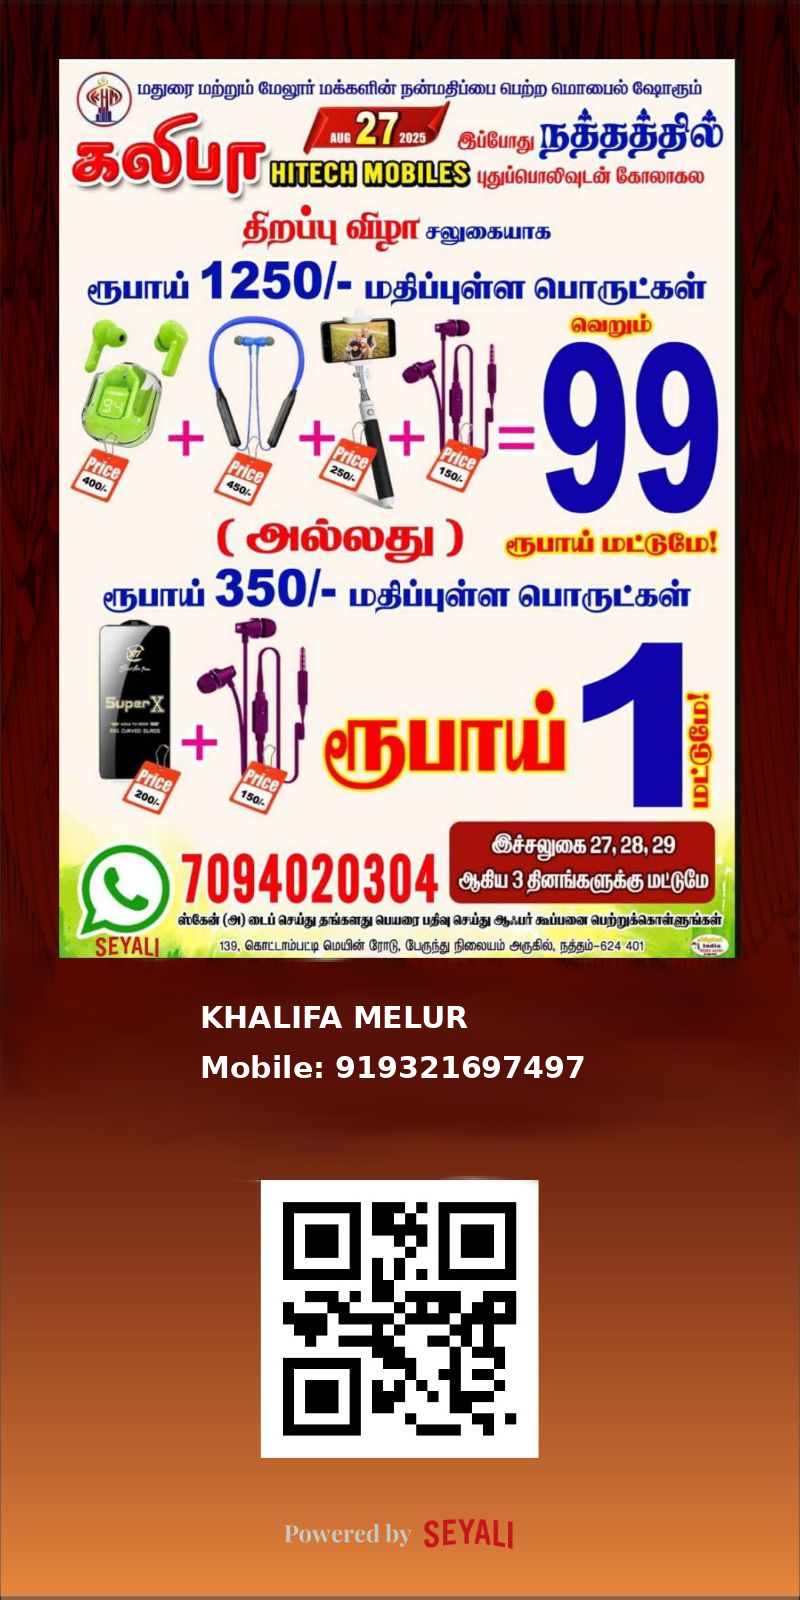
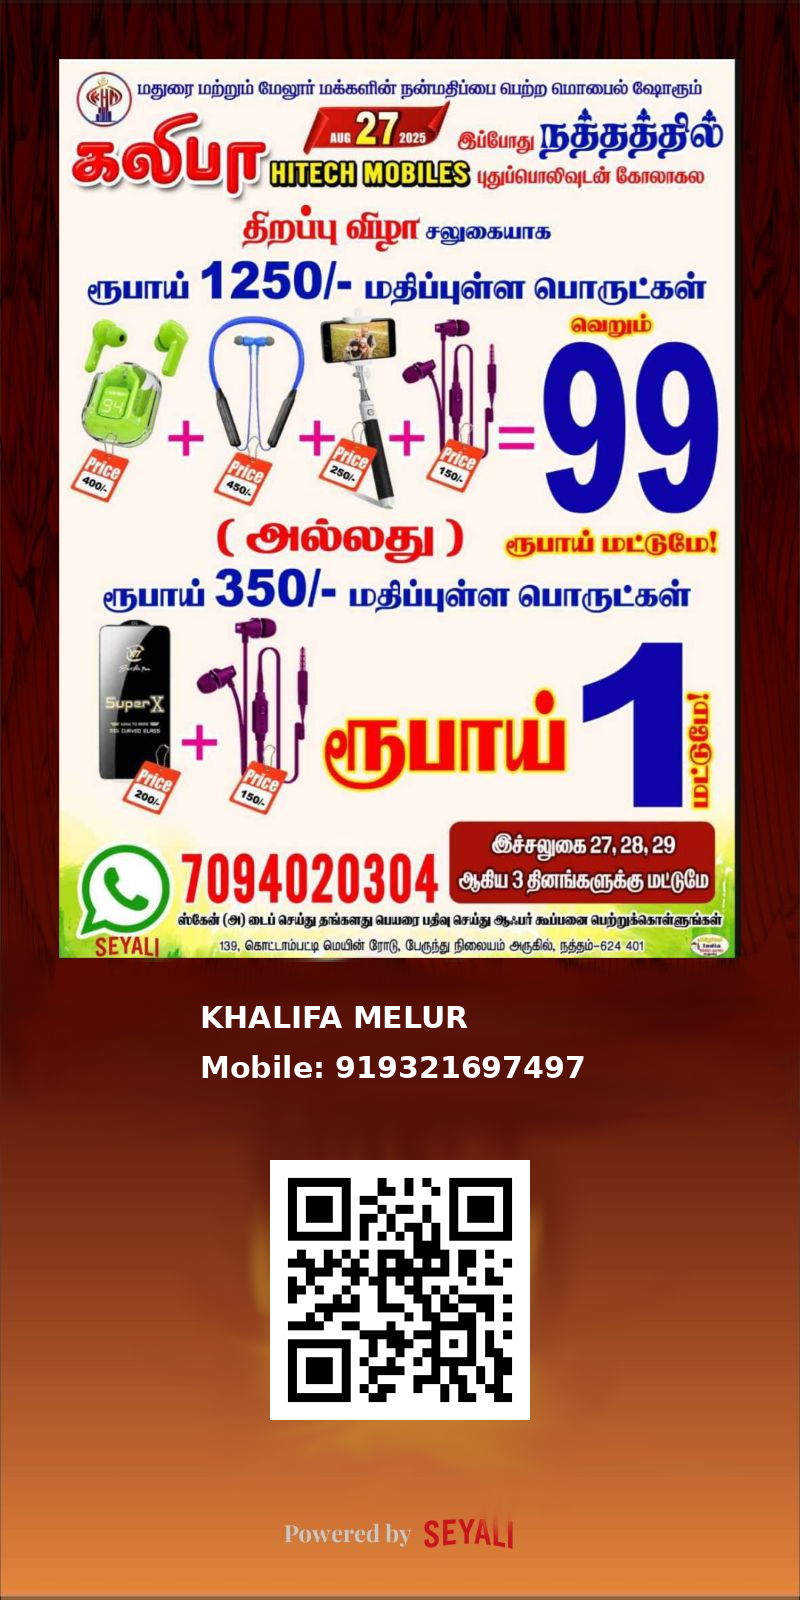
app added and qr added

Changed region(s): [[0.3125, 0.7188, 0.6875, 0.9375]]

diff --git a/app/handlers/webhook.py b/app/handlers/webhook.py
@@ -57,47 +57,66 @@ def generate_coupon(name: str, phone: str) -> str:
     img = Image.open(BASE_COUPON_PATH).convert("RGB")
     draw = ImageDraw.Draw(img)
 
-    font = ImageFont.truetype(FONT_PATH, 30)
+    # -----------------------------
+    # Text config (LOCKED)
+    # -----------------------------
+    FONT_SIZE = 30
+    Y_NAME = 1000
+    Y_PHONE = 1050
+    LEFT_PERCENT = 0.25
+
+    # -----------------------------
+    # QR config (LOCKED)
+    # -----------------------------
+    QR_SIZE = 260
+    TEXT_TO_QR_GAP = 110
+
+    font = ImageFont.truetype(FONT_PATH, FONT_SIZE)
 
     name = name.strip()[:25]
     safe_phone = "".join(c for c in phone if c.isdigit())
 
     img_width, _ = img.size
-    x = int(img_width * 0.25)
-    y_name = 1000
-    y_phone = 1050
+    x_text = int(img_width * LEFT_PERCENT)
 
-    # ---- Draw text ----
-    draw.text((x, y_name), name, fill="white", font=font)
-    draw.text((x, y_phone), f"Mobile: {safe_phone}", fill="white", font=font)
+    # -----------------------------
+    # Draw text
+    # -----------------------------
+    draw.text((x_text, Y_NAME), name, fill="white", font=font)
+    draw.text((x_text, Y_PHONE), f"Mobile: {safe_phone}", fill="white", font=font)
 
-    # -------------------------------------------------
-    # QR CODE GENERATION
-    # -------------------------------------------------
+    # -----------------------------
+    # Generate QR (same as preview)
+    # -----------------------------
+    qr_data = f"KHALIFA|{safe_phone}"
+
     qr = qrcode.QRCode(
-        version=2,
-        error_correction=qrcode.constants.ERROR_CORRECT_M,
+        version=None,
+        error_correction=qrcode.constants.ERROR_CORRECT_Q,
         box_size=10,
         border=2,
     )
-    qr.add_data(safe_phone)
+    qr.add_data(qr_data)
     qr.make(fit=True)
 
-    qr_img = qr.make_image(fill_color="black", back_color="white").convert("RGB")
+    qr_img = qr.make_image(
+        fill_color="black",
+        back_color="white"
+    ).convert("RGB")
 
-    # Resize QR (adjust if needed)
-    qr_size = 260
-    qr_img = qr_img.resize((qr_size, qr_size), Image.LANCZOS)
+    qr_img = qr_img.resize((QR_SIZE, QR_SIZE), Image.LANCZOS)
 
-    # Center alignment
-    qr_x = (img_width - qr_size) // 2
-    qr_y = y_phone + 20
+    # -----------------------------
+    # Center-align QR
+    # -----------------------------
+    qr_x = (img_width - QR_SIZE) // 2
+    qr_y = Y_PHONE + TEXT_TO_QR_GAP
 
     img.paste(qr_img, (qr_x, qr_y))
 
-    # -------------------------------------------------
+    # -----------------------------
     # Save
-    # -------------------------------------------------
+    # -----------------------------
     filename = f"coupon_{safe_phone}.png"
     output_path = os.path.join(GENERATED_DIR, filename)
     img.save(output_path)

diff --git a/static/images/coupon.py b/static/images/coupon.py
@@ -1,11 +1,12 @@
 import os
 from PIL import Image, ImageDraw, ImageFont
+import qrcode
 
 # -----------------------------
 # CONFIG (adjust freely)
 # -----------------------------
-BASE_COUPON_PATH = "./base_coupon.png"   # copy your base image here
-FONT_PATH = "../fonts/DejaVuSans-Bold.ttf"      # copy font here
+BASE_COUPON_PATH = "./base_coupon.png"
+FONT_PATH = "../fonts/DejaVuSans-Bold.ttf"
 OUTPUT_PATH = "./preview_coupon.png"
 
 NAME = "KHALIFA MELUR"
@@ -17,8 +18,12 @@ FONT_SIZE = 30
 Y_NAME = 1000
 Y_PHONE = 1050
 
-# Horizontal control (USER POV → smaller = more left)
-LEFT_PERCENT = 0.25   # try 0.05, 0.06, 0.1 etc
+# QR placement
+QR_SIZE = 260
+TEXT_TO_QR_GAP = 110   # ✅ EXACT gap you requested
+
+# Horizontal control
+LEFT_PERCENT = 0.25
 
 # -----------------------------
 # SCRIPT
@@ -36,14 +41,49 @@ def main():
     font = ImageFont.truetype(FONT_PATH, FONT_SIZE)
 
     img_width, img_height = img.size
-    x = int(img_width * LEFT_PERCENT)
+    x_text = int(img_width * LEFT_PERCENT)
 
     print(f"📐 Image size: {img_width}x{img_height}")
-    print(f"✏ Drawing text at x={x}, y={Y_NAME}/{Y_PHONE}")
 
-    draw.text((x, Y_NAME), NAME, fill="white", font=font)
-    draw.text((x, Y_PHONE), f"Mobile: {PHONE}", fill="white", font=font)
+    # -----------------------------
+    # Draw text
+    # -----------------------------
+    draw.text((x_text, Y_NAME), NAME, fill="white", font=font)
+    draw.text((x_text, Y_PHONE), f"Mobile: {PHONE}", fill="white", font=font)
 
+    # -----------------------------
+    # Generate QR Code
+    # -----------------------------
+    qr_data = f"KHALIFA|{PHONE}"
+    qr = qrcode.QRCode(
+        version=None,
+        error_correction=qrcode.constants.ERROR_CORRECT_Q,
+        box_size=10,
+        border=2,
+    )
+    qr.add_data(qr_data)
+    qr.make(fit=True)
+
+    qr_img = qr.make_image(
+        fill_color="black",
+        back_color="white"
+    ).convert("RGB")
+
+    qr_img = qr_img.resize((QR_SIZE, QR_SIZE))
+
+    # -----------------------------
+    # Position QR (center aligned)
+    # -----------------------------
+    qr_x = (img_width - QR_SIZE) // 2
+    qr_y = Y_PHONE + TEXT_TO_QR_GAP
+
+    print(f"🔳 QR placed at x={qr_x}, y={qr_y}")
+
+    img.paste(qr_img, (qr_x, qr_y))
+
+    # -----------------------------
+    # Save output
+    # -----------------------------
     img.save(OUTPUT_PATH)
     print(f"✅ Preview saved as {OUTPUT_PATH}")
 
